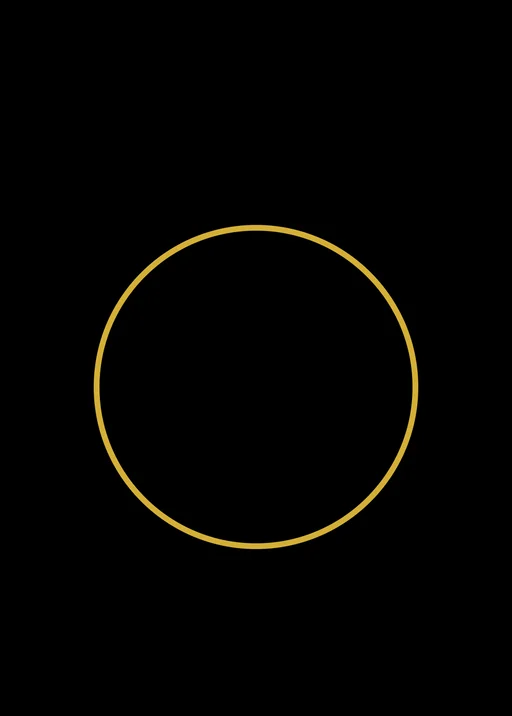
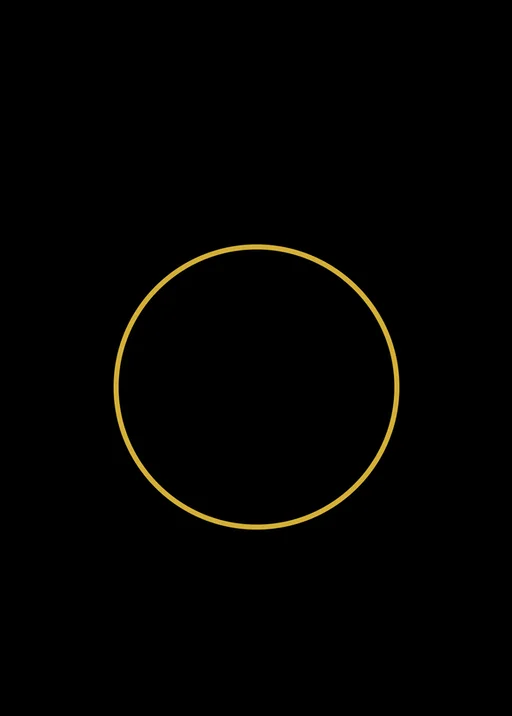
Element trumps, scoring divided by ten, smaller card-back ring
The trump chooser shows each suit as its element icon ringed in the element's
colour, and suits are named Fire, Earth, Water and Air throughout (Feuer, Erde,
Wasser, Luft in German). The trump announcement border follows the element
colours and its wording no longer says "colour".

Scoring is divided by ten: an exact prediction is 2 plus 1 per trick, a miss
loses 1 per trick of difference. The numbers live in scoringRules.ts, shared by
the calculator and the round-result breakdown; the rules text and the profile
level threshold follow.

The card back's ring is smaller, with larger icons centred on it.

Changed region(s): [[0.1562, 0.3073, 0.8438, 0.7682]]

diff --git a/src/i18n/long-texts.ts b/src/i18n/long-texts.ts
@@ -212,20 +212,20 @@ const rules = {
           Your score depends on how accurately you predict your tricks.
         </p>
         <ul>
-          <li>Predict correctly: +20 points, plus 10 points for
+          <li>Predict correctly: +2 points, plus 1 point for
             each trick you won.</li>
-          <li>Miss your prediction: −10 points for each trick
+          <li>Miss your prediction: −1 point for each trick
             of difference.</li>
         </ul>
 
         <div class="home-scoring-example">
           <strong>Examples</strong>
           <p>
-            Predict 0 and win 0: +20 points.<br>
-            Predict 2 and win 2: +40 points.<br>
-            Predict 3 and win 3: +50 points.<br>
-            Predict 2 and win 1: −10 points.<br>
-            Predict 2 and win 0: −20 points.
+            Predict 0 and win 0: +2 points.<br>
+            Predict 2 and win 2: +4 points.<br>
+            Predict 3 and win 3: +5 points.<br>
+            Predict 2 and win 1: −1 point.<br>
+            Predict 2 and win 0: −2 points.
           </p>
         </div>
       </section>
@@ -412,19 +412,19 @@ const rules = {
           Deine Punkte hängen davon ab, wie genau deine Ansage war.
         </p>
         <ul>
-          <li>Ansage getroffen: 20 Punkte, dazu 10 Punkte für jeden
+          <li>Ansage getroffen: 2 Punkte, dazu 1 Punkt für jeden
             gewonnenen Stich.</li>
-          <li>Ansage verfehlt: −10 Punkte für jeden Stich Unterschied.</li>
+          <li>Ansage verfehlt: −1 Punkt für jeden Stich Unterschied.</li>
         </ul>
 
         <div class="home-scoring-example">
           <strong>Beispiele</strong>
           <p>
-            0 angesagt, 0 gewonnen: +20 Punkte.<br>
-            2 angesagt, 2 gewonnen: +40 Punkte.<br>
-            3 angesagt, 3 gewonnen: +50 Punkte.<br>
-            2 angesagt, 1 gewonnen: −10 Punkte.<br>
-            2 angesagt, 0 gewonnen: −20 Punkte.
+            0 angesagt, 0 gewonnen: +2 Punkte.<br>
+            2 angesagt, 2 gewonnen: +4 Punkte.<br>
+            3 angesagt, 3 gewonnen: +5 Punkte.<br>
+            2 angesagt, 1 gewonnen: −1 Punkt.<br>
+            2 angesagt, 0 gewonnen: −2 Punkte.
           </p>
         </div>
       </section>

diff --git a/src/pages/WizardGame.ts b/src/pages/WizardGame.ts
@@ -10,6 +10,7 @@ import {
   type GameSocketMessage,
 } from "../services/gameSocket";
 import { escapeHtml } from "../utils/escape-html";
+import { t } from "../i18n";
 
 
 interface Card {
@@ -447,7 +448,7 @@ function renderGame(
             <span class="status-label">TRUMP</span>
             <strong>${formatCard(game.trumpCard)}
                     <div class="trump-suit">
-                      Trump Suit: ${game.trumpSuit ?? "None"}</div>
+                      Trump Suit: ${game.trumpSuit ? t(`suit.${game.trumpSuit}`) : "None"}</div>
             </strong>
           </div>
 
@@ -604,10 +605,10 @@ function renderGame(
                 <p>The turned card is a Jester. Choose the trump suit for this round.</p>
 
                 <div class="trump-suit-buttons">
-                  <button type="button" data-trump-suit="Blue">Blue</button>
-                  <button type="button" data-trump-suit="Red">Red</button>
-                  <button type="button" data-trump-suit="Yellow">Yellow</button>
-                  <button type="button" data-trump-suit="Green">Green</button>
+                  <button type="button" data-trump-suit="Blue">${t("suit.Blue")}</button>
+                  <button type="button" data-trump-suit="Red">${t("suit.Red")}</button>
+                  <button type="button" data-trump-suit="Yellow">${t("suit.Yellow")}</button>
+                  <button type="button" data-trump-suit="Green">${t("suit.Green")}</button>
                 </div>
               </section>
             `
@@ -1052,14 +1053,14 @@ function formatCard(
   }
 
   if (card.value === 14) {
-    return `Wizard of ${card.suit}`;
+    return `Wizard of ${t(`suit.${card.suit as Suit}`)}`;
   }
 
   if (card.value === 0) {
-    return `Jester of ${card.suit}`;
+    return `Jester of ${t(`suit.${card.suit as Suit}`)}`;
   }
 
-  return `${card.value} of ${card.suit}`;
+  return `${card.value} of ${t(`suit.${card.suit as Suit}`)}`;
 }
 
 function getErrorMessage(

diff --git a/src/style.css b/src/style.css
@@ -1153,11 +1153,21 @@ button {
   border-radius: 4px;
 }
 
+/* The element's icon on a dark card, ringed in the element's colour (set in
+   trump-prompt.ts). */
 .trump-swatch {
+  display: grid;
+  place-items: center;
   width: 56px;
   aspect-ratio: 5 / 7;
+  background: #0e0d0a;
   border: 2px solid rgba(191, 125, 47, 0.55);
   border-radius: 6px;
+}
+
+.trump-swatch img {
+  width: 70%;
+  height: auto;
 }
 
 .visualizer-page .trump-options button:hover:not(:disabled),
@@ -1703,33 +1713,34 @@ button {
   --emoticon-tint: #4a2488;
 }
 
-/* The trump colour announcement: the border in the suit's own colour. */
+/* The trump announcement: the border in the suit's element colour (red is
+   fire, green earth, blue water, yellow air; the names are the rules' own). */
 .visualizer-page .hud-announcer[data-suit="red"] {
   --border-dark: #6b1414;
-  --border-mid: #e53935;
+  --border-mid: #e92223;
   --border-glint: #ffc9c4;
-  --border-glow: rgb(229 57 53 / 35%);
+  --border-glow: rgb(233 34 35 / 35%);
 }
 
 .visualizer-page .hud-announcer[data-suit="green"] {
-  --border-dark: #14501f;
-  --border-mid: #43a047;
+  --border-dark: #1c4a20;
+  --border-mid: #4ca450;
   --border-glint: #d6ffd0;
-  --border-glow: rgb(67 160 71 / 35%);
+  --border-glow: rgb(76 164 80 / 35%);
 }
 
 .visualizer-page .hud-announcer[data-suit="blue"] {
-  --border-dark: #0d3a78;
-  --border-mid: #1e88e5;
+  --border-dark: #0a3f73;
+  --border-mid: #018bf6;
   --border-glint: #cfe6ff;
-  --border-glow: rgb(30 136 229 / 35%);
+  --border-glow: rgb(1 139 246 / 35%);
 }
 
 .visualizer-page .hud-announcer[data-suit="yellow"] {
-  --border-dark: #8a5d12;
-  --border-mid: #ffd54f;
-  --border-glint: #fff3b0;
-  --border-glow: rgb(255 196 64 / 35%);
+  --border-dark: #6e6448;
+  --border-mid: #f3e6c4;
+  --border-glint: #fffaf0;
+  --border-glow: rgb(243 230 196 / 35%);
 }
 
 .visualizer-page .hud-announcer.is-ingame {

diff --git a/src/visualizer/trump-prompt.ts b/src/visualizer/trump-prompt.ts
@@ -1,4 +1,5 @@
 import type { Suit } from "../../backend/src/game/wizard/models/card";
+import { cardFile } from "./card-art-files";
 import { trumpColor } from "./card-textures";
 import { CARDS } from "./config";
 import { canAct, isLocalTurn, type GameConnection } from "./game-connection";
@@ -19,8 +20,8 @@ export interface TrumpPromptOptions {
 }
 
 // "Choose Trumps": when the card turned up for trump is a Wizard or a Jester,
-// the round's first player picks the suit from four swatches in the suit
-// colours. The choice goes to the server as `choose_trump`. Sits where the
+// the round's first player picks the suit from four swatches, each the
+// suit's element icon ringed in its colour. The choice goes to the server as `choose_trump`. Sits where the
 // prediction prompt does, which follows it.
 export function createTrumpPrompt(
   root: HTMLElement,
@@ -53,7 +54,11 @@ export function createTrumpPrompt(
       button.setAttribute("aria-label", suitName(suit as Suit));
       const swatch = document.createElement("span");
       swatch.className = "trump-swatch";
-      swatch.style.background = trumpColor(suit);
+      swatch.style.borderColor = trumpColor(suit);
+      const icon = document.createElement("img");
+      icon.src = cardFile(`icons/${CARDS.suitElements[suit]}.webp`);
+      icon.alt = "";
+      swatch.append(icon);
       const name = document.createElement("span");
       name.textContent = suitName(suit as Suit);
       button.append(swatch, name);

diff --git a/src/visualizer/hud/announcements.ts b/src/visualizer/hud/announcements.ts
@@ -3,13 +3,14 @@ import { gameWinners } from "./game-winner";
 import type { PublicGamePlayer, PublicWizardGameState } from "../../../backend/src/game/wizard/models/wizardGame";
 import type { Card, Suit } from "../../../backend/src/game/wizard/models/card";
 import { t } from "../../i18n";
+import { EXACT_PREDICTION_BONUS, POINTS_PER_TRICK } from "../../../backend/src/game/wizard/scoringRules";
 
 // What the top-centre banner says, worked out from game state alone. No DOM
 // and no timing: announcer.ts decides when each line shows.
 
 export interface RoundResultLine {
   label: string;
-  value: string; // signed, e.g. "+20" or "-10"
+  value: string; // signed, e.g. "+2" or "-1"
 }
 
 export interface RoundResult {
@@ -199,8 +200,8 @@ export function roundResults(previous: PublicWizardGameState, next: PublicWizard
     const lines: RoundResultLine[] =
       prediction === tricksWon
         ? [
-            { label: t("ann.bonus"), value: "+20" },
-            { label: t("ann.tricks"), value: signed(tricksWon * 10) },
+            { label: t("ann.bonus"), value: signed(EXACT_PREDICTION_BONUS) },
+            { label: t("ann.tricks"), value: signed(tricksWon * POINTS_PER_TRICK) },
           ]
         : [{ label: t("ann.offBy", { off: String(off) }), value: "" }];
     const summary = t("ann.predictedWon", { prediction: String(prediction), won: String(tricksWon) });

diff --git a/src/visualizer/config.ts b/src/visualizer/config.ts
@@ -588,12 +588,13 @@ export const TURN_HOURGLASS = {
 // ══════════════════════════════════════════════════════════════════════════
 
 export const CARDS = {
-  // Face colour for each suit, as CSS colours.
+  // Colour for each suit, as CSS colours: its element's colour (see
+  // elementColors), used for the trump chooser and the trump marker.
   suitColors: {
-    Red: "#c62828",
-    Green: "#2e7d32",
-    Blue: "#1565c0",
-    Yellow: "#f9a825",
+    Red: "#e92223",
+    Green: "#4ca450",
+    Blue: "#018bf6",
+    Yellow: "#f3e6c4",
   } as Record<string, string>,
 
   // The element each suit is drawn as: it names the card art's folder and
@@ -683,11 +684,11 @@ export const CARDS = {
     // when the file was made), the space it leaves at the top left black.
     ringCenterY: 0.5405,
     // The ring's radius, measured to the middle of its line.
-    ringRadius: 0.311,
+    ringRadius: 0.268,
     // The element at each cardinal point of the ring, clockwise from the top.
     ringElements: ["air", "fire", "water", "earth"],
     // Icon size, and its black outline and feather, as for the corner icons.
-    iconSize: 0.15,
+    iconSize: 0.18,
     iconOutline: 0.008,
     iconFeather: 0.012,
   },

diff --git a/src/i18n/en.ts b/src/i18n/en.ts
@@ -245,10 +245,10 @@ export const en = {
   "system.installIos": "To install: tap Share, then Add to Home Screen.",
   "system.installOther": "To install: open the browser menu (⋮), then Install app or Add to Home screen.",
 
-  "suit.Blue": "Blue",
-  "suit.Red": "Red",
-  "suit.Yellow": "Yellow",
-  "suit.Green": "Green",
+  "suit.Blue": "Water",
+  "suit.Red": "Fire",
+  "suit.Yellow": "Air",
+  "suit.Green": "Earth",
   "card.wizard": "Wizard",
   "card.jester": "Jester",
   "card.suitValue": "{suit} {value}",
@@ -321,8 +321,8 @@ export const en = {
   "ann.tie": "{names} tie for the Game!",
   "ann.youWin": "You Win the Game!",
   "ann.wins": "{name} Wins the Game!",
-  "ann.noTrump": "No Trump Colour this round",
-  "ann.trumpIs": "Trump Colour is {suit}",
+  "ann.noTrump": "No Trump this round",
+  "ann.trumpIs": "Trump is {suit}",
   "ann.youPredictOne": "You Predict 1 Trick",
   "ann.youPredictMany": "You Predict {count} Tricks",
   "ann.predictsOne": "{name} Predicts 1 Trick",

diff --git a/backend/src/game/wizard/services/wizardScoreCalculator.ts b/backend/src/game/wizard/services/wizardScoreCalculator.ts
@@ -1,17 +1,22 @@
 import type { WizardGameState } from "../models/wizardGame.js";
+import {
+  EXACT_PREDICTION_BONUS,
+  MISS_PENALTY_PER_TRICK,
+  POINTS_PER_TRICK,
+} from "../scoringRules.js";
 
 export class ScoreCalculator {
-  // Wizard rewards an exact bid with a base bonus; misses lose ten points per
-  // trick of difference.
+  // An exact bid earns a base bonus plus points per trick won; a miss loses
+  // points per trick of difference (see scoringRules.ts).
   calculateRoundScore(
     prediction: number,
     actualTricks: number,
   ): number {
     if (prediction === actualTricks) {
-      return 20 + actualTricks * 10;
+      return EXACT_PREDICTION_BONUS + actualTricks * POINTS_PER_TRICK;
     }
 
-    return Math.abs(prediction - actualTricks) * -10;
+    return -Math.abs(prediction - actualTricks) * MISS_PENALTY_PER_TRICK;
   }
 
   // Record both the round result and the cumulative score for every player.

diff --git a/backend/src/game/wizard/services/wizardScoreCalculator.test.ts b/backend/src/game/wizard/services/wizardScoreCalculator.test.ts
@@ -1,0 +1,18 @@
+import { describe, expect, it } from "vitest";
+import { ScoreCalculator } from "./wizardScoreCalculator.js";
+
+describe("ScoreCalculator.calculateRoundScore", () => {
+  const calculator = new ScoreCalculator();
+
+  it("gives two points plus one per trick for an exact prediction", () => {
+    expect(calculator.calculateRoundScore(0, 0)).toBe(2);
+    expect(calculator.calculateRoundScore(2, 2)).toBe(4);
+    expect(calculator.calculateRoundScore(3, 3)).toBe(5);
+  });
+
+  it("loses one point per trick of difference for a miss", () => {
+    expect(calculator.calculateRoundScore(2, 1)).toBe(-1);
+    expect(calculator.calculateRoundScore(2, 0)).toBe(-2);
+    expect(calculator.calculateRoundScore(0, 3)).toBe(-3);
+  });
+});

diff --git a/src/pages/Profile.ts b/src/pages/Profile.ts
@@ -25,9 +25,9 @@ import { renderNavbar } from "../components/Navbar";
 import { escapeHtml } from "../utils/escape-html";
 import { t, type MessageKey } from "../i18n";
 
-// About half the 400 points of a perfect three-player game, so short games
-// can earn a level too: 200 points stand in for one full game.
-const POINTS_PER_FULL_GAME = 200;
+// About half the 40 points of a perfect three-player game, so short games can
+// earn a level too: 20 points stand in for one full game.
+const POINTS_PER_FULL_GAME = 20;
 
 const PLAYER_LEVELS: { name: MessageKey; fullGames: number }[] = [
   { name: "profile.level.expert", fullGames: 75 },

diff --git a/src/i18n/de.ts b/src/i18n/de.ts
@@ -246,10 +246,10 @@ export const de: Record<MessageKey, string> = {
   "system.installIos": "Zum Installieren: Tippe auf Teilen, dann auf Zum Home-Bildschirm.",
   "system.installOther": "Zum Installieren: Öffne das Browsermenü (⋮), dann App installieren oder Zum Startbildschirm hinzufügen.",
 
-  "suit.Blue": "Blau",
-  "suit.Red": "Rot",
-  "suit.Yellow": "Gelb",
-  "suit.Green": "Grün",
+  "suit.Blue": "Wasser",
+  "suit.Red": "Feuer",
+  "suit.Yellow": "Luft",
+  "suit.Green": "Erde",
   "card.wizard": "Zauberer",
   "card.jester": "Narr",
   "card.suitValue": "{suit} {value}",

diff --git a/backend/src/game/wizard/scoringRules.ts b/backend/src/game/wizard/scoringRules.ts
@@ -1,0 +1,9 @@
+// How a round is scored. Shared by the score calculator and the round-result
+// breakdown the frontend shows, so the two cannot drift apart.
+
+// An exact prediction earns this, plus POINTS_PER_TRICK for each trick won.
+export const EXACT_PREDICTION_BONUS = 2;
+export const POINTS_PER_TRICK = 1;
+
+// A miss loses this for each trick of difference.
+export const MISS_PENALTY_PER_TRICK = 1;
